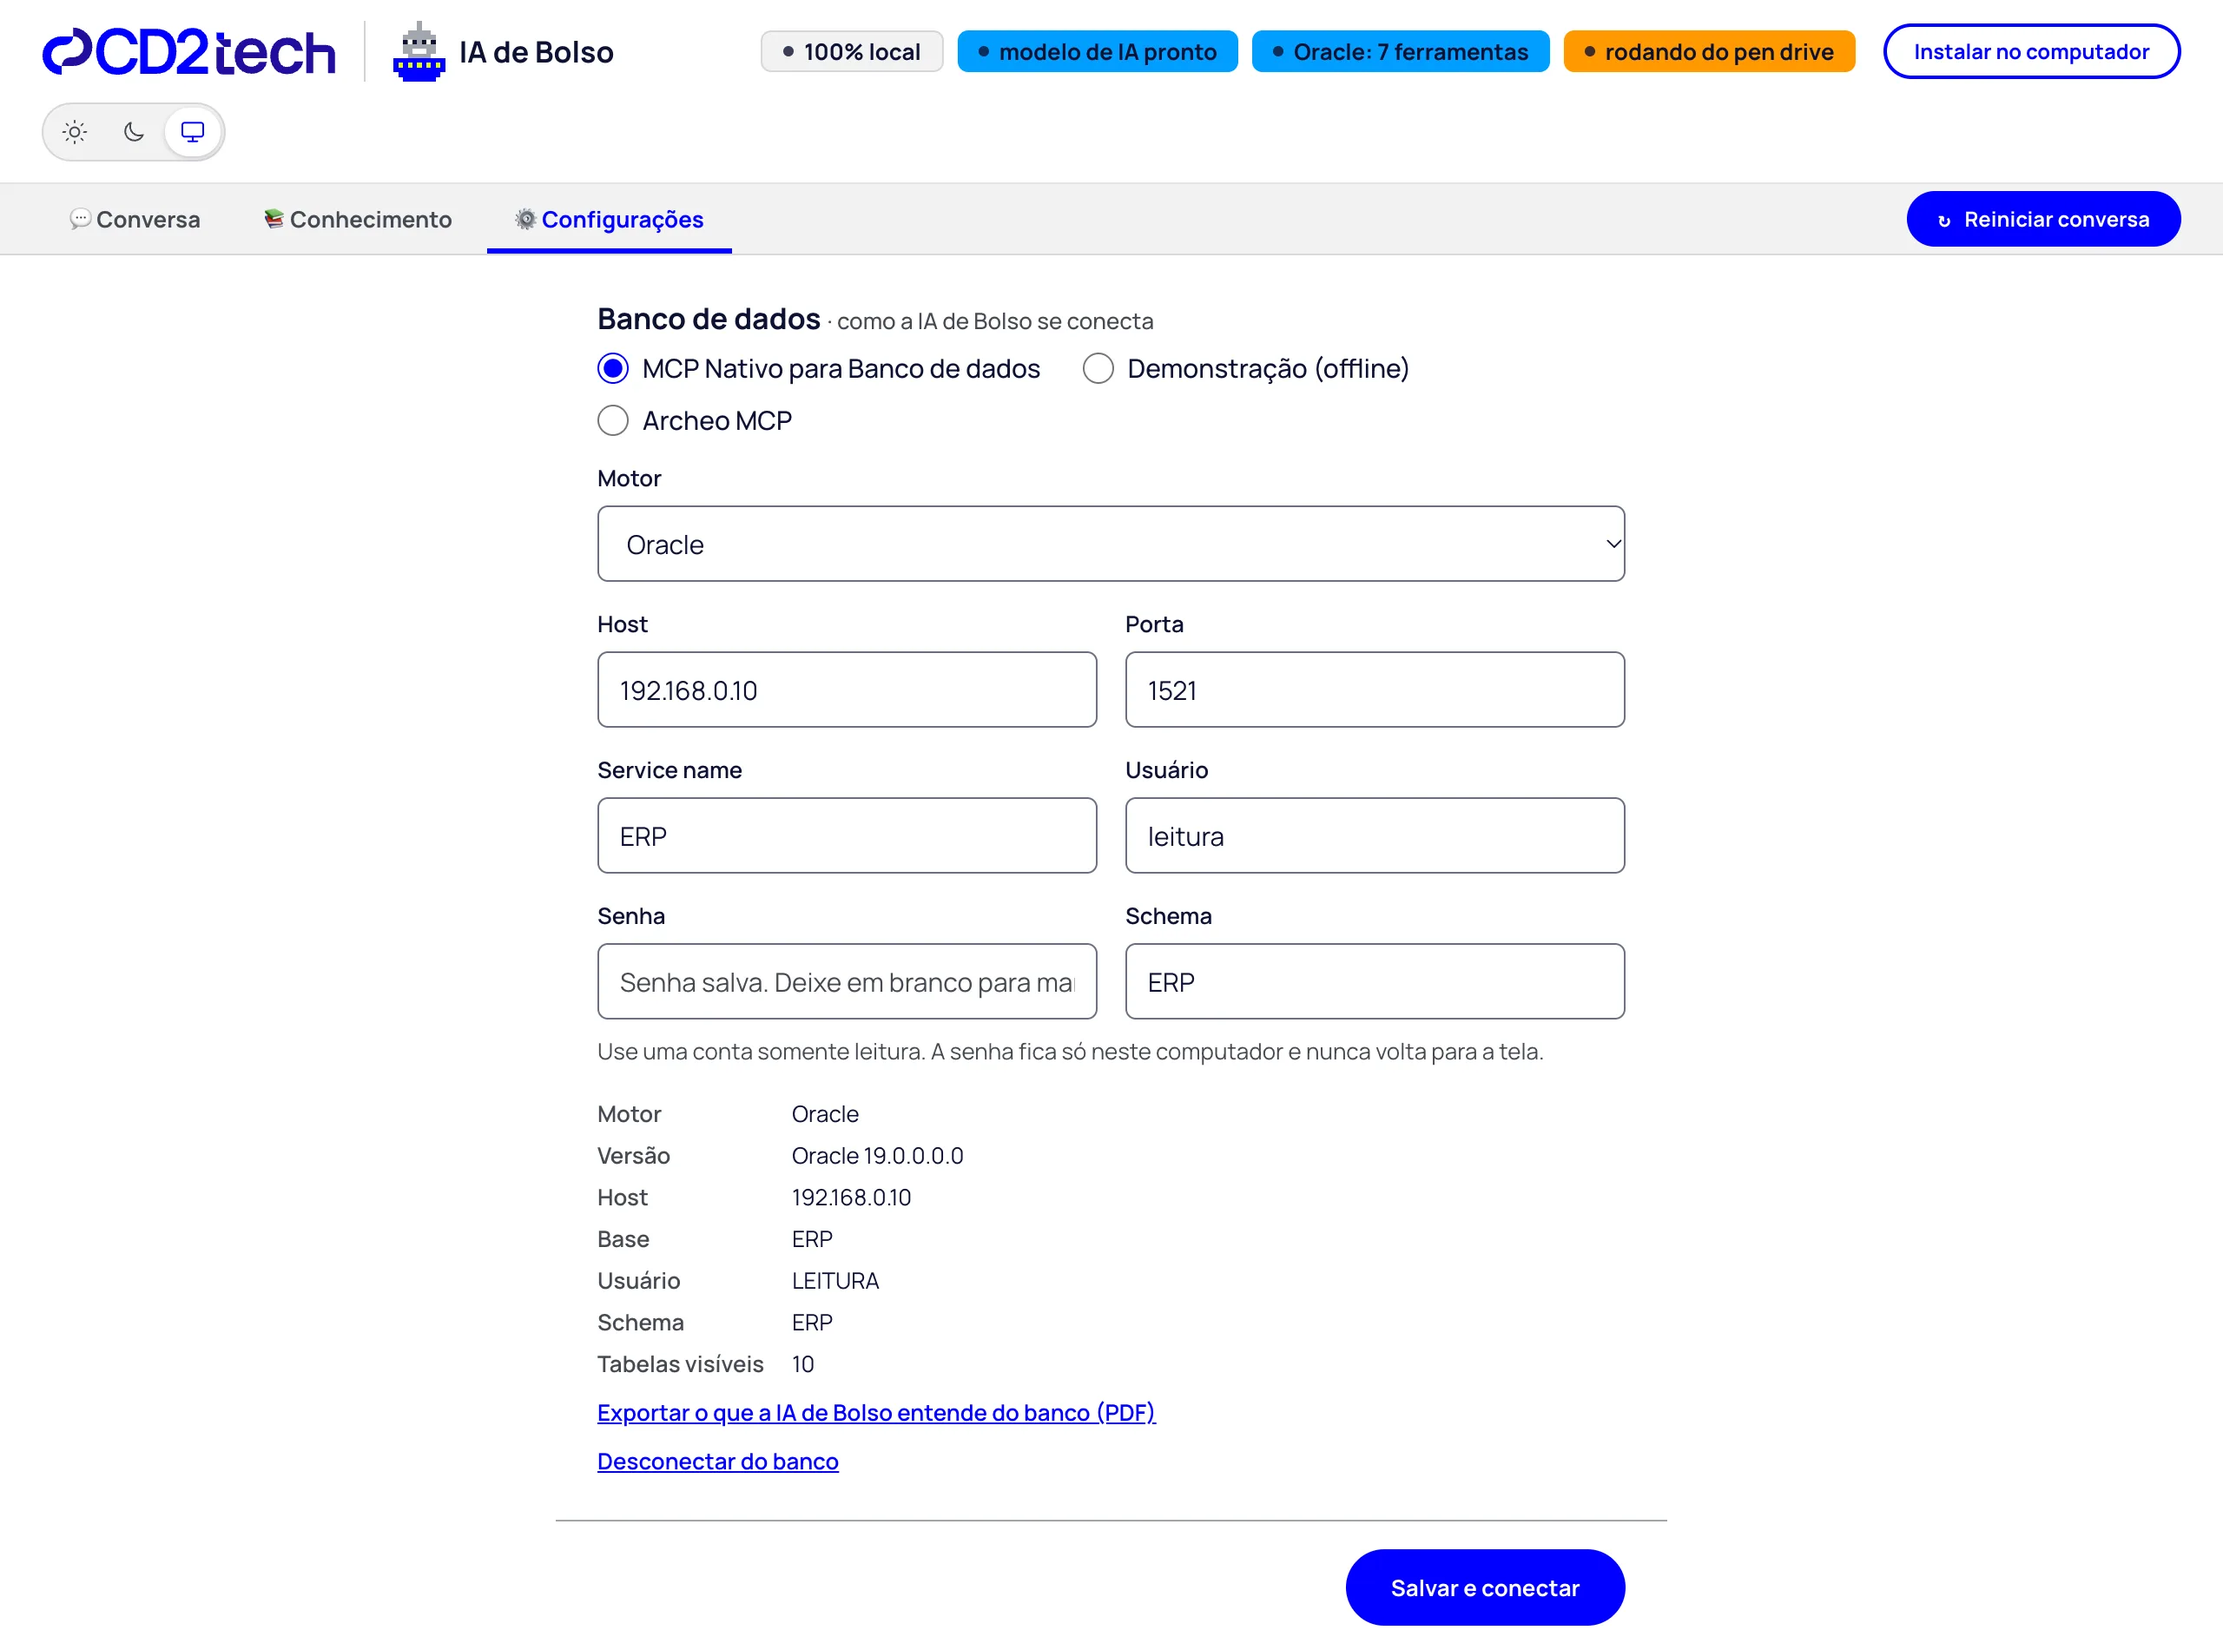
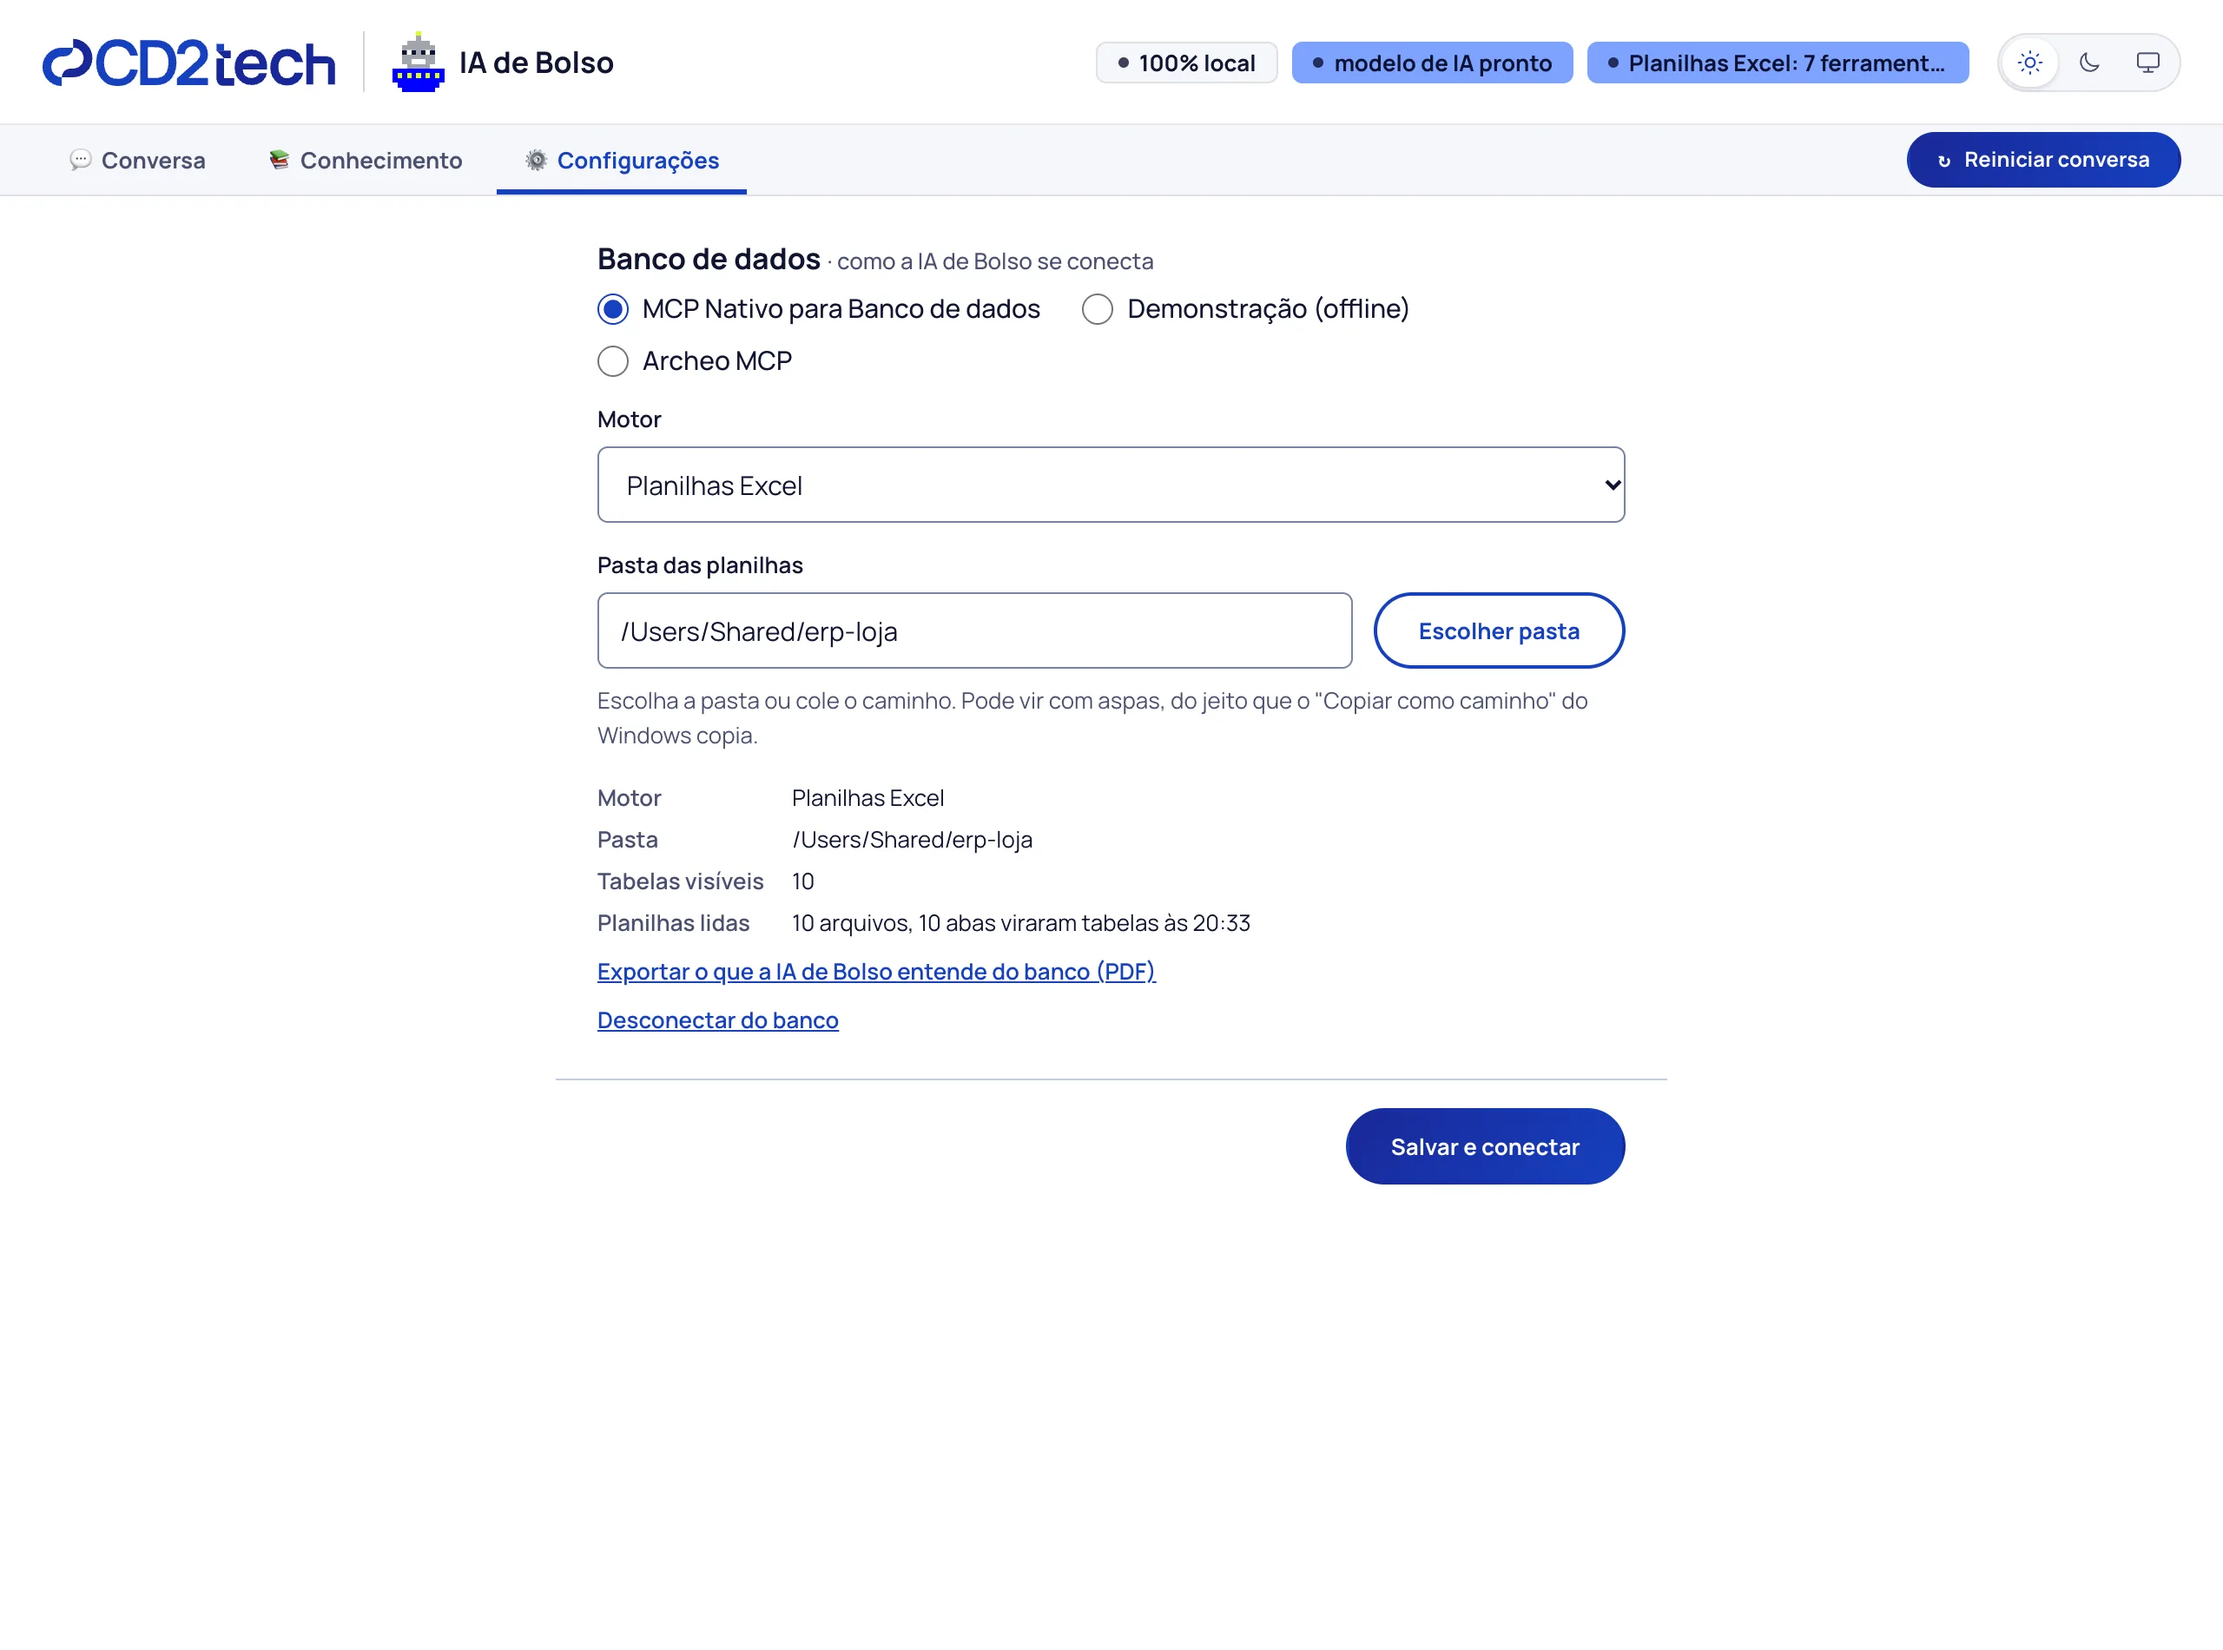
docs: prints de Configurações e Conhecimento com as cores novas
Tirados da IA conectada a uma pasta de planilhas que imita um ERP de varejo
(fi_titulo, ge_pessoa, map_produto, mfl_doctofiscal...), com comentários da TI
nos campos. Textos alternativos atualizados.

diff --git a/docs/index.html b/docs/index.html
@@ -401,7 +401,7 @@ src="https://www.facebook.com/tr?id=804031478836109&ev=PageView&noscript=1"
       <h2>Conecta no sistema <em>que você já usa.</em></h2>
       <p class="lead">A conexão fica guardada só no computador. Nada vai para a nuvem.</p>
       <figure class="tela">
-        <img src="assets/telas/configuracoes.webp" width="2560" height="1900" loading="lazy" alt="Guia Configurações da IA de Bolso: as opções MCP Nativo para Banco de dados, Demonstração (offline) e Archeo MCP; o formulário com motor Oracle, host 192.168.0.10, porta 1521, service name ERP, usuário leitura, senha e schema ERP; abaixo, a conexão ativa com versão do banco, base, usuário, schema e 10 tabelas visíveis, os links para exportar o PDF e desconectar, e o botão Salvar e conectar.">
+        <img src="assets/telas/configuracoes.webp" width="2560" height="1900" loading="lazy" alt="Guia Configurações da IA de Bolso: as opções MCP Nativo para Banco de dados (escolhida), Demonstração (offline) e Archeo MCP; o motor Planilhas Excel com a pasta das planilhas e o botão Escolher pasta; abaixo, a conexão ativa com o motor, a pasta, 10 tabelas visíveis e as planilhas lidas, os links para exportar o PDF e desconectar, e o botão Salvar e conectar.">
         <figcaption>A guia <strong>Configurações</strong> é uma tela só: escolha entre banco de dados, Demonstração ou Archeo, preencha a conexão e clique em <strong>Salvar e conectar</strong>. Ela mostra o que está conectado agora e tem o botão para desconectar. A senha fica só neste computador e nunca volta para a tela.</figcaption>
       </figure>
       <div class="grid2">
@@ -420,7 +420,7 @@ src="https://www.facebook.com/tr?id=804031478836109&ev=PageView&noscript=1"
       <h2>Ela aprende o seu banco. <em>Você corrige o que ela entendeu.</em></h2>
       <p class="lead">Nome de tabela de sistema de gestão raramente explica o que tem dentro. Ao conectar, a IA de Bolso olha cada tabela, entende o papel dela e escreve uma frase sobre cada uma. Na guia <strong>Conhecimento</strong> você vê tudo isso e ajusta com uma palavra sua.</p>
       <figure class="tela">
-        <img src="assets/telas/conhecimento.webp" width="2560" height="2048" loading="lazy" alt="Guia Conhecimento da IA de Bolso: no topo, &quot;Banco de dados · Oracle · base ERP · 10 tabelas, 3 com nota&quot; e os botões Atualizar com o banco, Exportar e Importar. À esquerda, a lista de tabelas com o papel de cada uma (movimento, cadastro, parâmetro, itens). À direita, a tabela FI_TITULO com o texto &quot;O que a IA entendeu&quot;, o campo Comentário sobre a tabela e a lista de campos com tipo e uma caixa de comentário por campo, como &quot;SEQPESSOA é um cliente&quot;.">
+        <img src="assets/telas/conhecimento.webp" width="2560" height="2048" loading="lazy" alt="Guia Conhecimento da IA de Bolso: no topo, &quot;Planilhas Excel · 10 tabelas, 3 com nota&quot; e os botões Atualizar com o banco, Exportar e Importar. À esquerda, a lista de tabelas de um ERP de varejo com o papel de cada uma (movimento, cadastro, itens). À direita, a tabela mfl_doctofiscal com o texto &quot;O que a IA entendeu&quot; (documentos fiscais emitidos, como NFC-e), o campo Comentário sobre a tabela e a lista de campos com tipo e uma caixa de comentário por campo, como &quot;nroempresa: Número da loja&quot; e &quot;vlrtotal: Total da nota, já com desconto&quot;.">
         <figcaption>À esquerda, as tabelas do banco com o papel que a IA deu a cada uma. À direita, o que ela entendeu da tabela escolhida, o comentário dela já preenchido para você corrigir, e uma caixa de comentário por campo.</figcaption>
       </figure>
       <div class="grid2">
